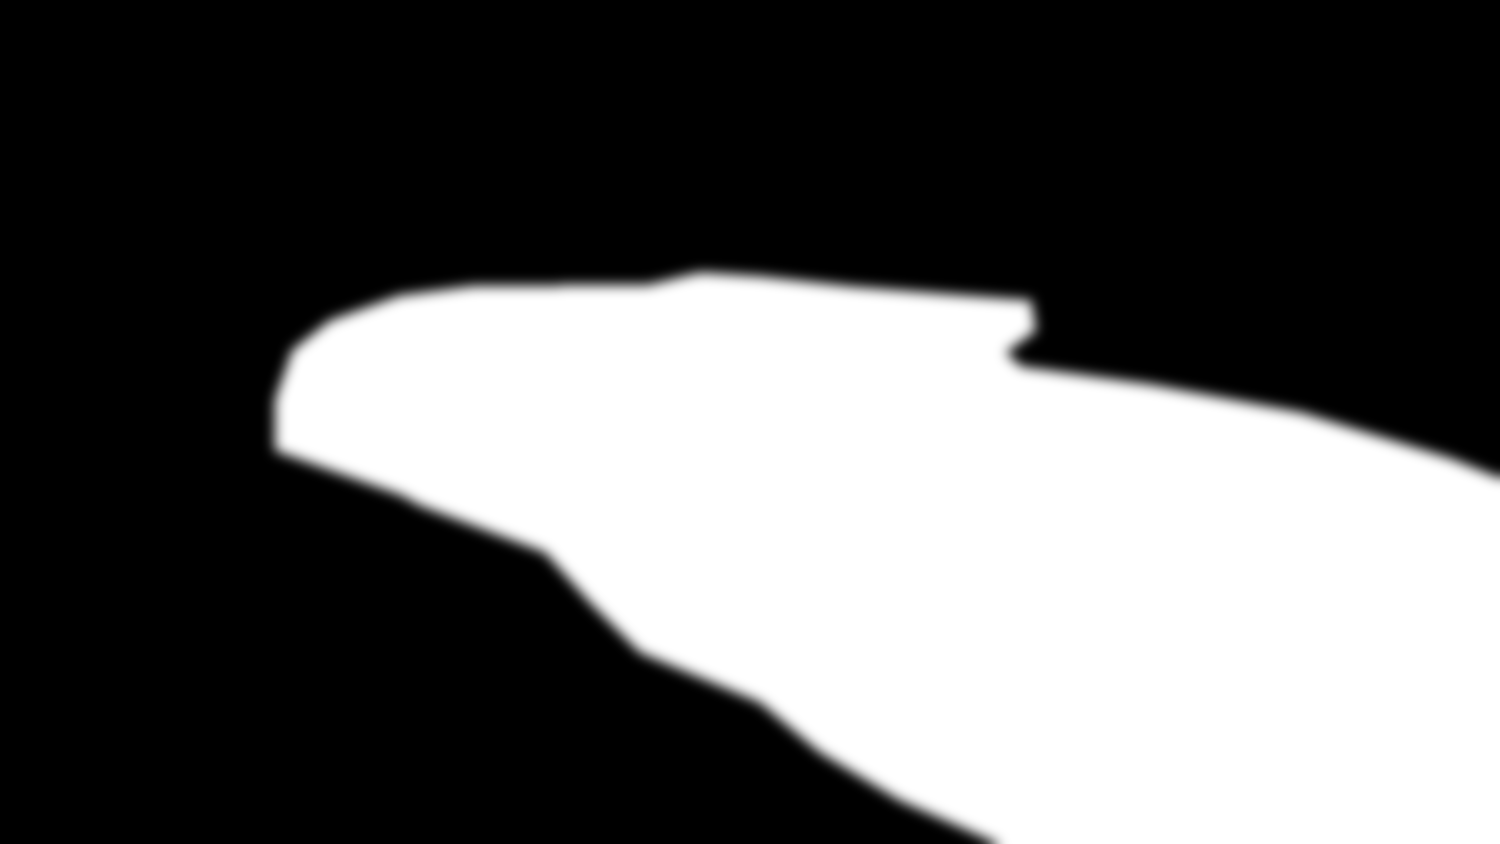
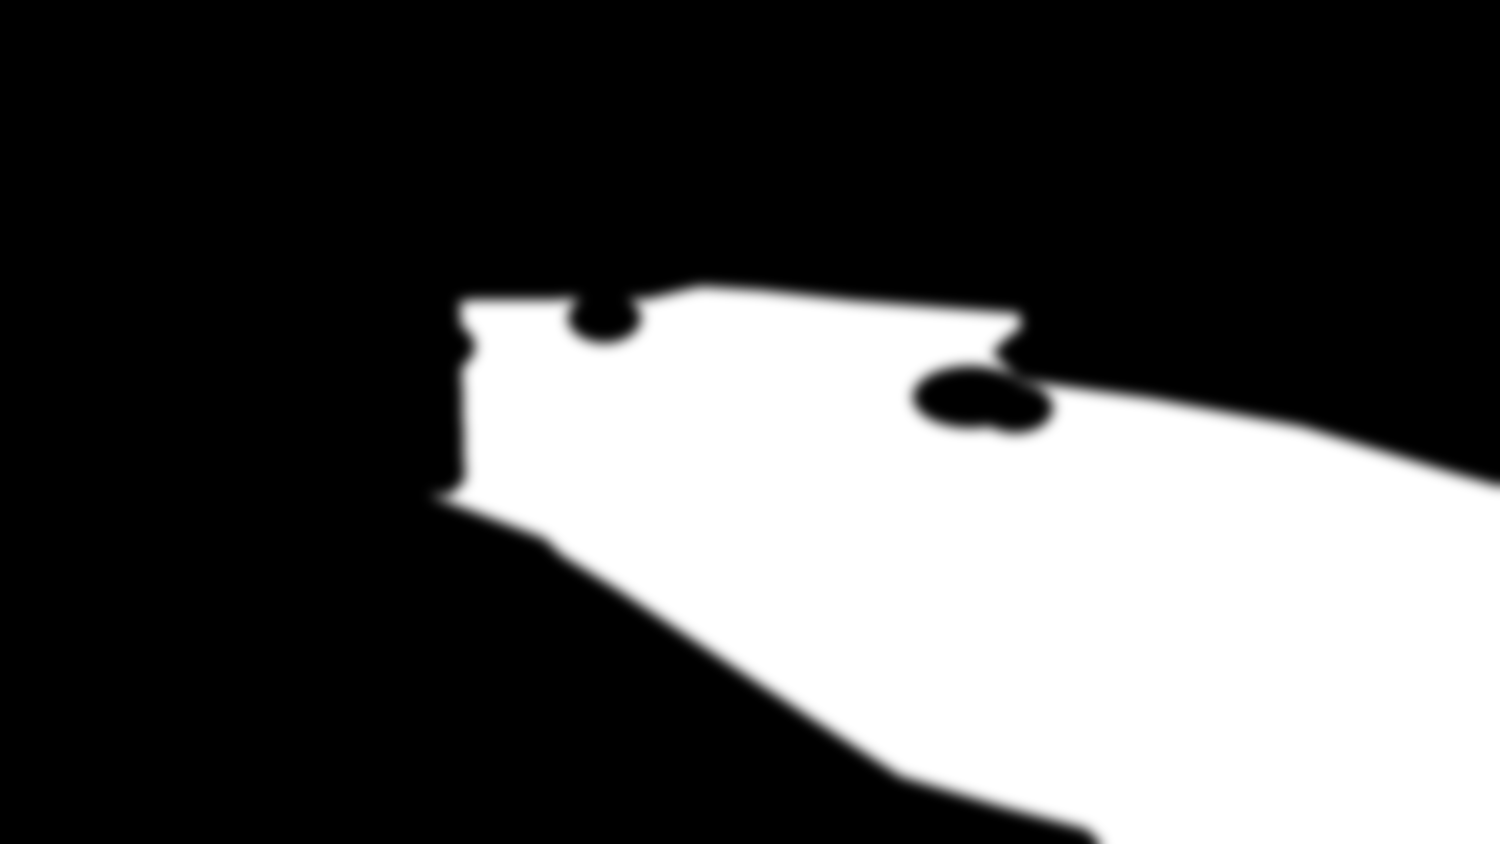
Water moves only in open river (boats, docks, shores still); narrow screens frame Istanbul and London
Claude-Session: https://claude.ai/code/session_01WS1Ggxd3pVnHHNUyePA6WY

Changed region(s): [[0.1533, 0.3081, 1.0, 1.0]]

diff --git a/assets/home.js b/assets/home.js
@@ -138,6 +138,8 @@
   var layer = document.getElementById("landmarks");
   function cover() {
     var W = hero.clientWidth, H = hero.clientHeight, s = Math.max(W / IMG.w, H / IMG.h);
+    IMG.ax = W / H < 1.15 ? 0.1 : 0.5;                 // narrow screens: keep Istanbul and London in view
+    hero.style.setProperty("--ax", (IMG.ax * 100) + "%");
     return { s: s, ox: (W - IMG.w * s) * IMG.ax, oy: (H - IMG.h * s) * IMG.ay, W: W, H: H };
   }
   function pct(v, of) { return (v / of * 100) + "%"; }
@@ -328,7 +330,7 @@
       });
       gl.uniform1i(gl.getUniformLocation(p, "uImg"), 0); gl.uniform1i(gl.getUniformLocation(p, "uMask"), 1);
       gl.uniform2f(gl.getUniformLocation(p, "uImgSize"), imgs[0].naturalWidth, imgs[0].naturalHeight);
-      gl.uniform2f(gl.getUniformLocation(p, "uAnchor"), IMG.ax, IMG.ay);
+      var uAnchor = gl.getUniformLocation(p, "uAnchor");
       var uRes = gl.getUniformLocation(p, "uRes"), uT = gl.getUniformLocation(p, "uT");
       root.classList.add("gl");
       var visible = true, t0 = performance.now();
@@ -338,7 +340,7 @@
         if (!visible || document.hidden) return;
         var w = Math.round(canvas.clientWidth * dpr), h = Math.round(canvas.clientHeight * dpr);
         if (canvas.width !== w || canvas.height !== h) { canvas.width = w; canvas.height = h; }
-        gl.viewport(0, 0, w, h); gl.uniform2f(uRes, w, h); gl.uniform1f(uT, (now - t0) / 1000);
+        gl.viewport(0, 0, w, h); gl.uniform2f(uRes, w, h); gl.uniform2f(uAnchor, IMG.ax, IMG.ay); gl.uniform1f(uT, (now - t0) / 1000);
         gl.drawArrays(gl.TRIANGLE_STRIP, 0, 4);
       })(t0);
     }).catch(function () {});

diff --git a/index.html b/index.html
@@ -32,8 +32,8 @@ a { color: inherit; }
 a:focus-visible { outline: 2px solid var(--gold); outline-offset: 3px; }
 
 /* ---------------- hero ---------------- */
-.hero { position: relative; height: max(640px, 100svh); overflow: hidden; background: var(--night) url("/assets/city-1600.jpg") 50% 50% / cover; color: var(--ink); isolation: isolate; }
-.city, .river { position: absolute; inset: 0; width: 100%; height: 100%; object-fit: cover; object-position: 50% 50%; }
+.hero { position: relative; height: max(640px, 100svh); overflow: hidden; background: var(--night) url("/assets/city-1600.jpg") var(--ax, 50%) 50% / cover; color: var(--ink); isolation: isolate; }
+.city, .river { position: absolute; inset: 0; width: 100%; height: 100%; object-fit: cover; object-position: var(--ax, 50%) 50%; }
 .city { z-index: -4; }
 .river { z-index: -3; opacity: 0; transition: opacity 0.8s ease; pointer-events: none; }
 .gl .river { opacity: 1; }
@@ -287,6 +287,6 @@ footer { font-size: 13px; color: var(--muted); }
   <footer>Built with Claude. Hosted on GitHub Pages.</footer>
 </div>
 
-<script src="/assets/home.js?v=1795150435" defer></script>
+<script src="/assets/home.js?v=1795150709" defer></script>
 </body>
 </html>
